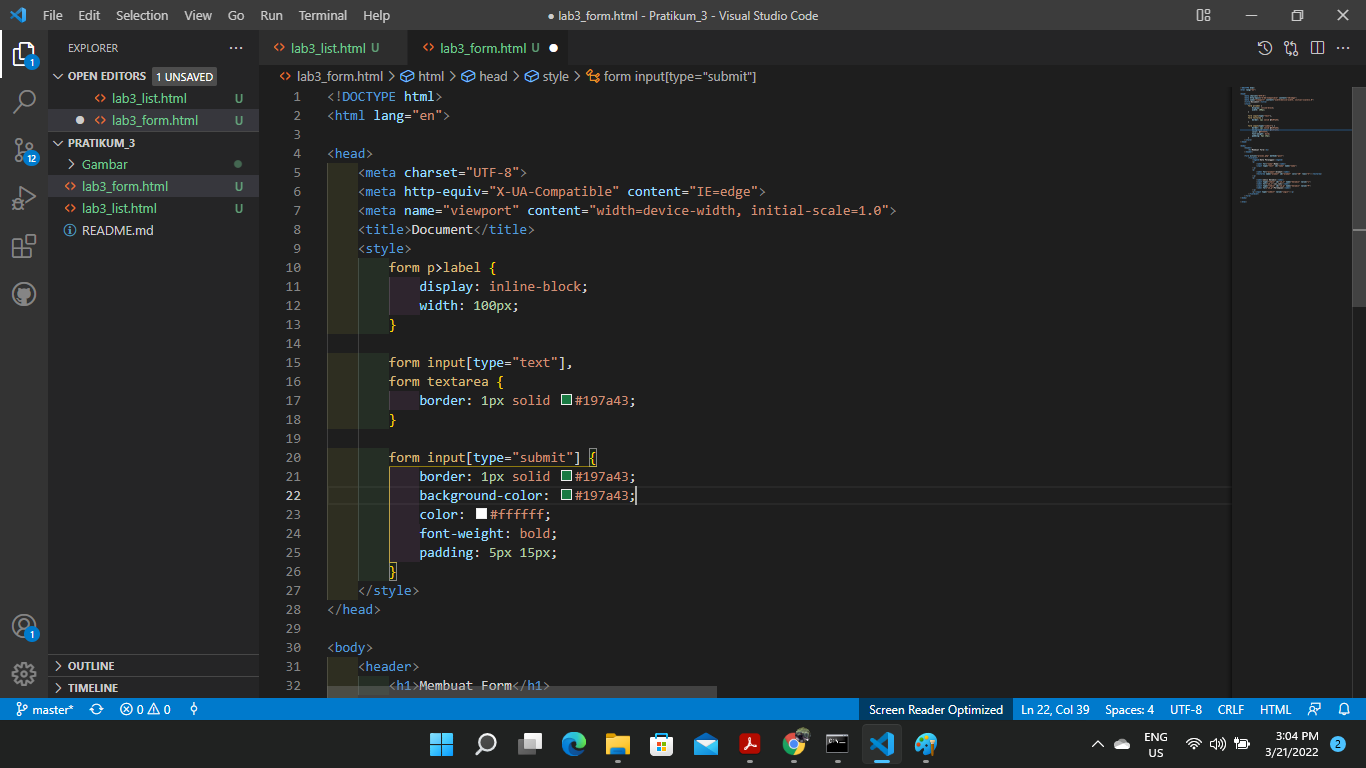
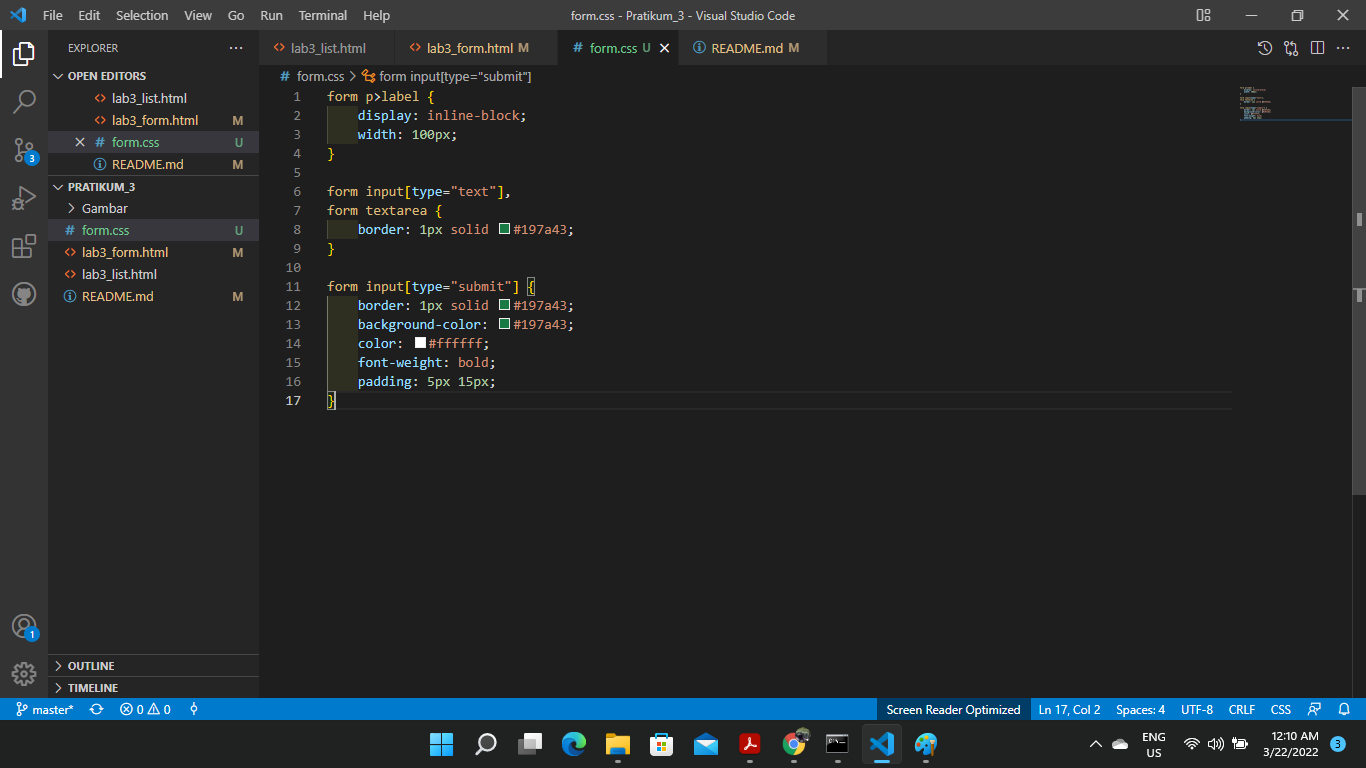
Gambar

diff --git a/lab3_form.html b/lab3_form.html
@@ -6,7 +6,8 @@
     <meta http-equiv="X-UA-Compatible" content="IE=edge">
     <meta name="viewport" content="width=device-width, initial-scale=1.0">
     <title>Document</title>
-    <style>
+    <link rel="stylesheet" href="form.css">
+    <!-- <style>
         form p>label {
             display: inline-block;
             width: 100px;
@@ -24,7 +25,7 @@
             font-weight: bold;
             padding: 5px 15px;
         }
-    </style>
+    </style> -->
 </head>
 
 <body>

diff --git a/form.css b/form.css
@@ -1,0 +1,17 @@
+form p>label {
+    display: inline-block;
+    width: 100px;
+}
+
+form input[type="text"],
+form textarea {
+    border: 1px solid #197a43;
+}
+
+form input[type="submit"] {
+    border: 1px solid #197a43;
+    background-color: #197a43;
+    color: #ffffff;
+    font-weight: bold;
+    padding: 5px 15px;
+}

diff --git a/README.md b/README.md
@@ -3,26 +3,59 @@
 
 ## Membuat List
 
-    * Tag Header pada html digunakan untuk menentukan header atau kepala 
-    dokumen dari website atau situs html. Tag tersebut berisi informasi 
-    yang berkaitan dengan judul dan heading konten terkait
 ![1.png](Gambar/1.png)
+* Tag `<Header>` pada html digunakan untuk menentukan header atau kepala 
+dokumen dari website atau situs html. Tag tersebut berisi informasi 
+yang berkaitan dengan judul dan heading konten terkait
+* tag `<section>` merepresentasikan sebuah bagian dokumen atau aplikasi.
+Secara kontekstual, `<section>` element digunakan untuk mengelompokkan konten/dokumen 
+menjadi beberapa bagian berdasarkan tema atau pokok pikiran masing-masing.
+* tag `<ol>` (Ordered List) digunakan untuk membuat daftar dimana tiap bagiannya memiliki nomor secara terurut.
+* tag `<ul>` (Unordered List) berfungsi untuk menampilkan daftar list dalam bentuk bulat
+atau kotak.
 ![1_1.png](Gambar/1_1.png)
 
-
+## Description List
 ![2.png](Gambar/2.png)
+* tag `<dl>` menunjukan sebuah Description List atau daftar penjelasan.
+* tag `<dt>` menunjukkan sebuah Definition Term yang digunakan untuk merepresentasikan sebuah istilah pada daftar definisi
+(Definition list(`<dl>`)). `<dt>` ditulis didalam elemet `<dl>` dan sebelum `<dd>`
+* tag `<dd>` menunjukan sebuah Definition Description atau penjelasan dari sebuah istilah/term.
+`<dd>` tag merupakan element yang memberikan penjelasan sebuah istilah/term 
+(Yang ditulis didalam element `<dt>` (definition term)). 
+element `<dt>` dan `<dd>`, keduanya ditulis dalam `<dl>` element yang menunjukkan sebuah definition list.
 ![2_2.png](Gambar/2_2.png)
 
 
 ![3.png](Gambar/3.png)
+* Tag `<table>` untuk membungkus tabelnya
+* Border adalah salah satu property css, border memiliki fungsi untuk memberi batas/garis(seperti) pada suatu bidang/box/tag html.
+* Atribut cellpadding adalah atribut untuk mengatur jarak teks dengan garis di dalam sel.
+* cellspacing digunakan untuk mengatur jarak antara garis tepi (border) bagian dalam dan luar.
+* tag `<thead>` digunakan untuk mengelompokkan konten yang terletak di kepala (atas) sebuah tabel. 
+Di dalam element `<thead>` tersebut, harus ditulis element `<tr>` yang menunjukkan table row atau baris sebuah table.
+* Tag `<tbody>` untuk membungkus bagian body dari tabel
+* Tag `<tr>` (tabel row) untuk membuat baris
+* Tag `<th>` (table head) untuk membuat judul pada header
+* Tag `<td>` (table data) untuk membuat sel
 ![3_3.png](Gambar/3_3.png)
 
-
+### Atribut rowspan
 ![4.png](Gambar/4.png)
+* Atribut rowspan digunakan untuk menggabungkan baris pada tabel.
 ![4_4.png](Gambar/4_4.png)
 
-
+### Membuat Form
 ![5.png](Gambar/5.png)
+* Form merupakan bagian pada HTML yang dapat digunakan untuk membuat elemen Form pada halaman Web.
+Elemen Form dapat terdiri dari check box, radio button, menu, text box, text area, dan button.
+* Tag `<Legend>`, digunakan untuk memberikan judul pada sebuah form. Dengan tag `<legend> `kita dapat membedakan form – form sesuai namanya.
+* Tag `<input>` Elemen input tipe teks dapat dipai untuk berbagai macam tipe data. Dapat berupa teks, nama, alamat, tanggal, nomor hp, email yang berupa sebuah teks.
+* `type="text"` digunakan agar tag `<input>` itu berupa sebuah teks.
+* Tag  `<textarea>` digunaka untuk mengisi huruf atau angka yang panjang, contoh seperti Alamat maka bisa menggunakan `textarea`.
+* Membuat radio button isi dalam `<input type="radio">`, kegunaan radio button adalah agar pengguna untuk memilih salah satu dari radio button itu contoh 
+"Jenis Kelami Laki-Laki Perempuan" maka pengguna akan memilih salah satu dari pilihan itu.
+* Type `submit` digunakan untuk memproses data yang di input.
 ![5_5.png](Gambar/5_5.png)
 
 
